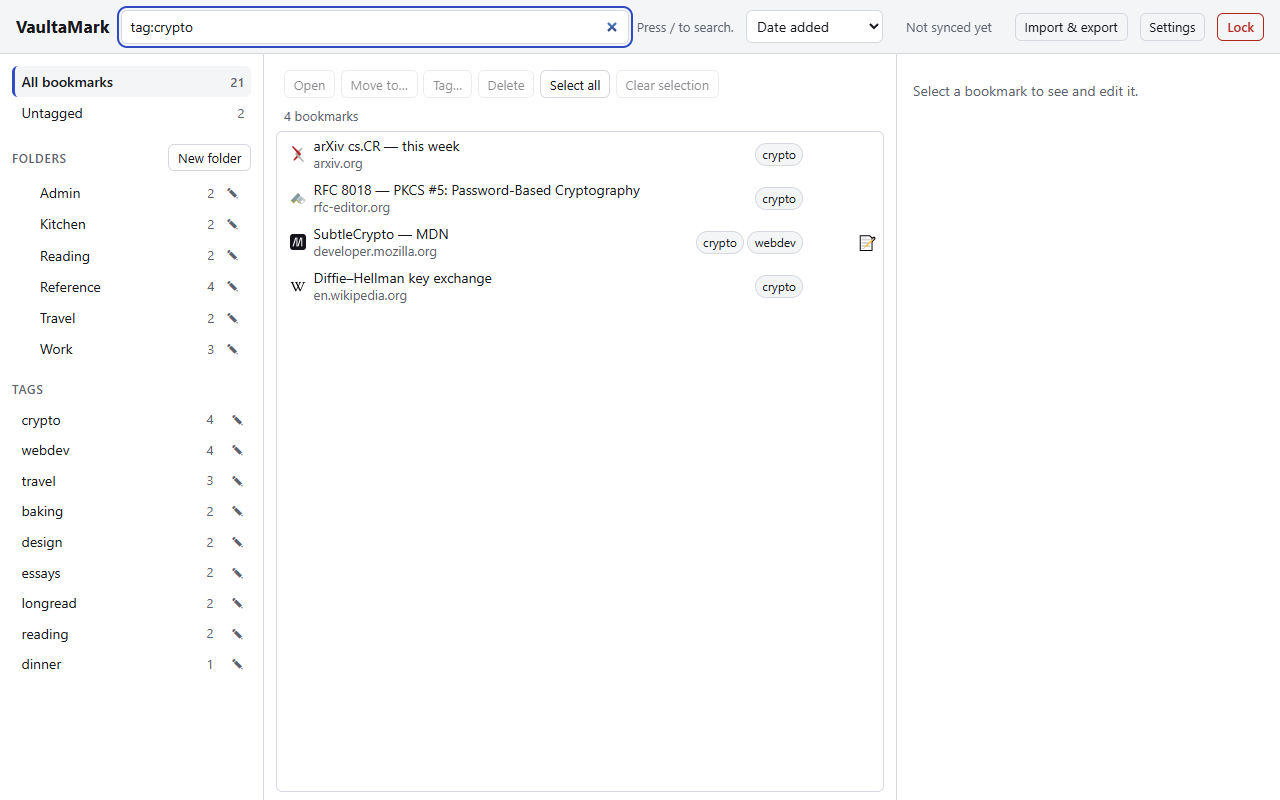
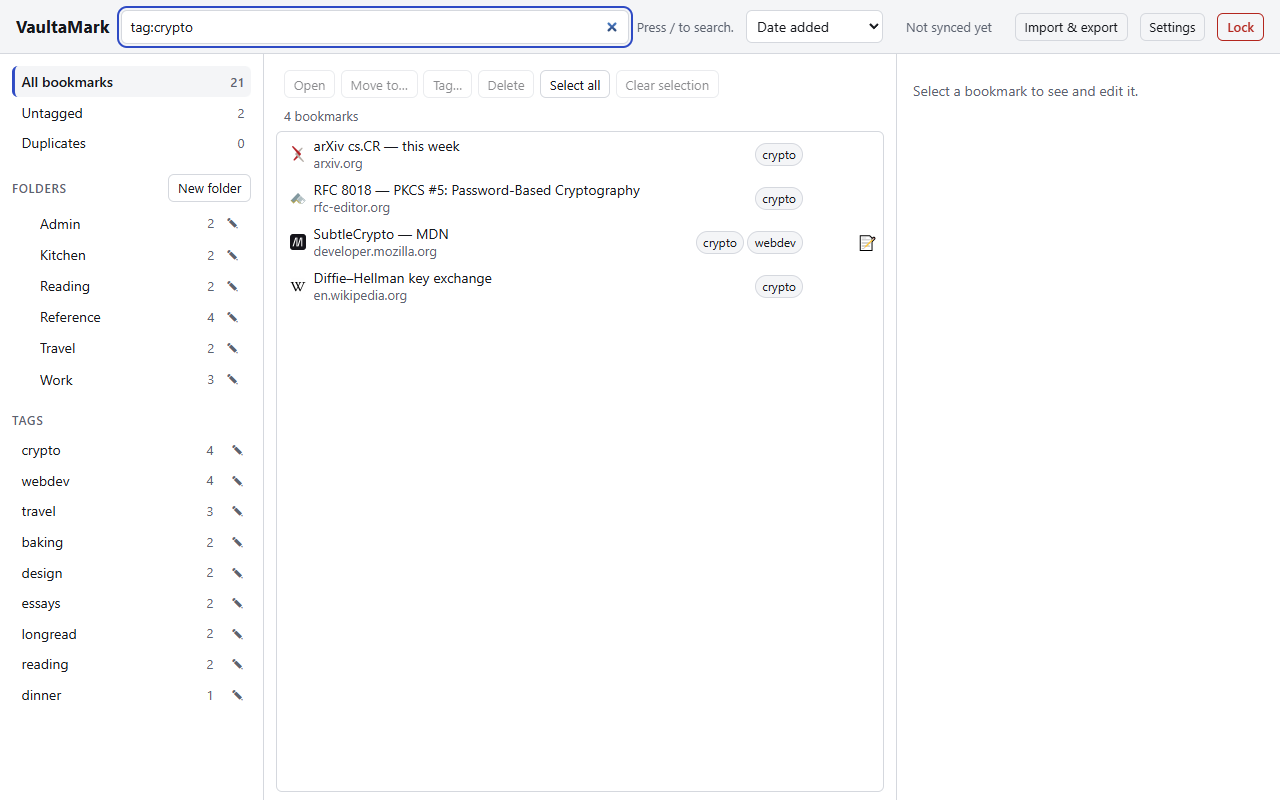
docs(store): retake the three shots 1.2.0 changed, and pin the capture's language
Shot 4 was showing a checkbox labelled "Lock when I switch to another
app" — a sentence the product stopped containing this release — and no
Toolbar appearance section at all. Shots 1 and 3 were missing the
Duplicates row, and 1 the Show QR code button. Shots 2 and 5 came back
byte-identical, which is the capture doing its job.

The script would not run here at all: it took its language from the
operating system, so on a Polish machine it waited thirty seconds for a
button named "Next" and died. Same pin as test/e2e/harness.ts, both
halves of it, for the same reason — these are the English listing's
pictures.

Also recorded: the favicon warm-up is best-effort over the network, so a
diff in a screenshot can be a flaky icon rather than a UI change. One run
lost seat61.com's icon and the next brought it back.

diff --git a/docs/STORE_LISTING.md b/docs/STORE_LISTING.md
@@ -87,11 +87,21 @@ part a person recognises in a toolbar.
 | 4 | `screenshot-4-sync.png` | Settings: both tiers, Drive disconnected, the quota bar. Light. |
 | 5 | `screenshot-5-no-recovery.png` | Setup step 2 — the no-recovery warning, and the phrase you have to type. Dark. |
 
-**Retaken for 1.1.0: shots 1 and 3, and only those two.** Folder rows in the sidebar gained the
-pencil that tag rows have had since Phase 6, so the two shots showing the sidebar were out of date
-and the other three came back byte-identical from the same script. That is worth knowing about the
-capture: it is deterministic, so a rerun that changes a file is telling you the UI changed, and a
-rerun that changes nothing is not a wasted afternoon.
+**Retaken for 1.2.0: shots 1, 3 and 4.** Both sidebar shots gained the *Duplicates* row, shot 1
+gained the *Show QR code* button in the detail pane, and shot 4 was the one that had to be retaken
+rather than merely could be: it showed a *Locking* checkbox reading **"Lock when I switch to another
+app"**, which is a sentence the shipped product no longer contains, and it predated the whole
+*Toolbar appearance* section. Shots 2 and 5 came back byte-identical. (For 1.1.0 it was 1 and 3, when
+folder rows gained the pencil tag rows have had since Phase 6.)
+
+That is worth knowing about the capture: it is deterministic, so a rerun that changes a file is
+telling you the UI changed, and a rerun that changes nothing is not a wasted afternoon. **Two things
+it is not deterministic about**, both worth a second run before believing a diff: the favicon warm-up
+is best-effort over the network, so a flaky run swaps a real icon for Chrome's generic globe — one
+run here lost `seat61.com` and the next brought it back — and until 1.2.0 the script took its
+**language from the operating system**, which on a Polish machine meant it did not run at all. Pinned
+now, the way `test/e2e/harness.ts` pins it, and for the same reason: these are the English listing's
+pictures.
 
 **Everything in them is invented.** Real, well-known destinations, so the favicons and domains look
 like a person's vault rather than a lorem-ipsum one, with titles, folders, tags and notes written
